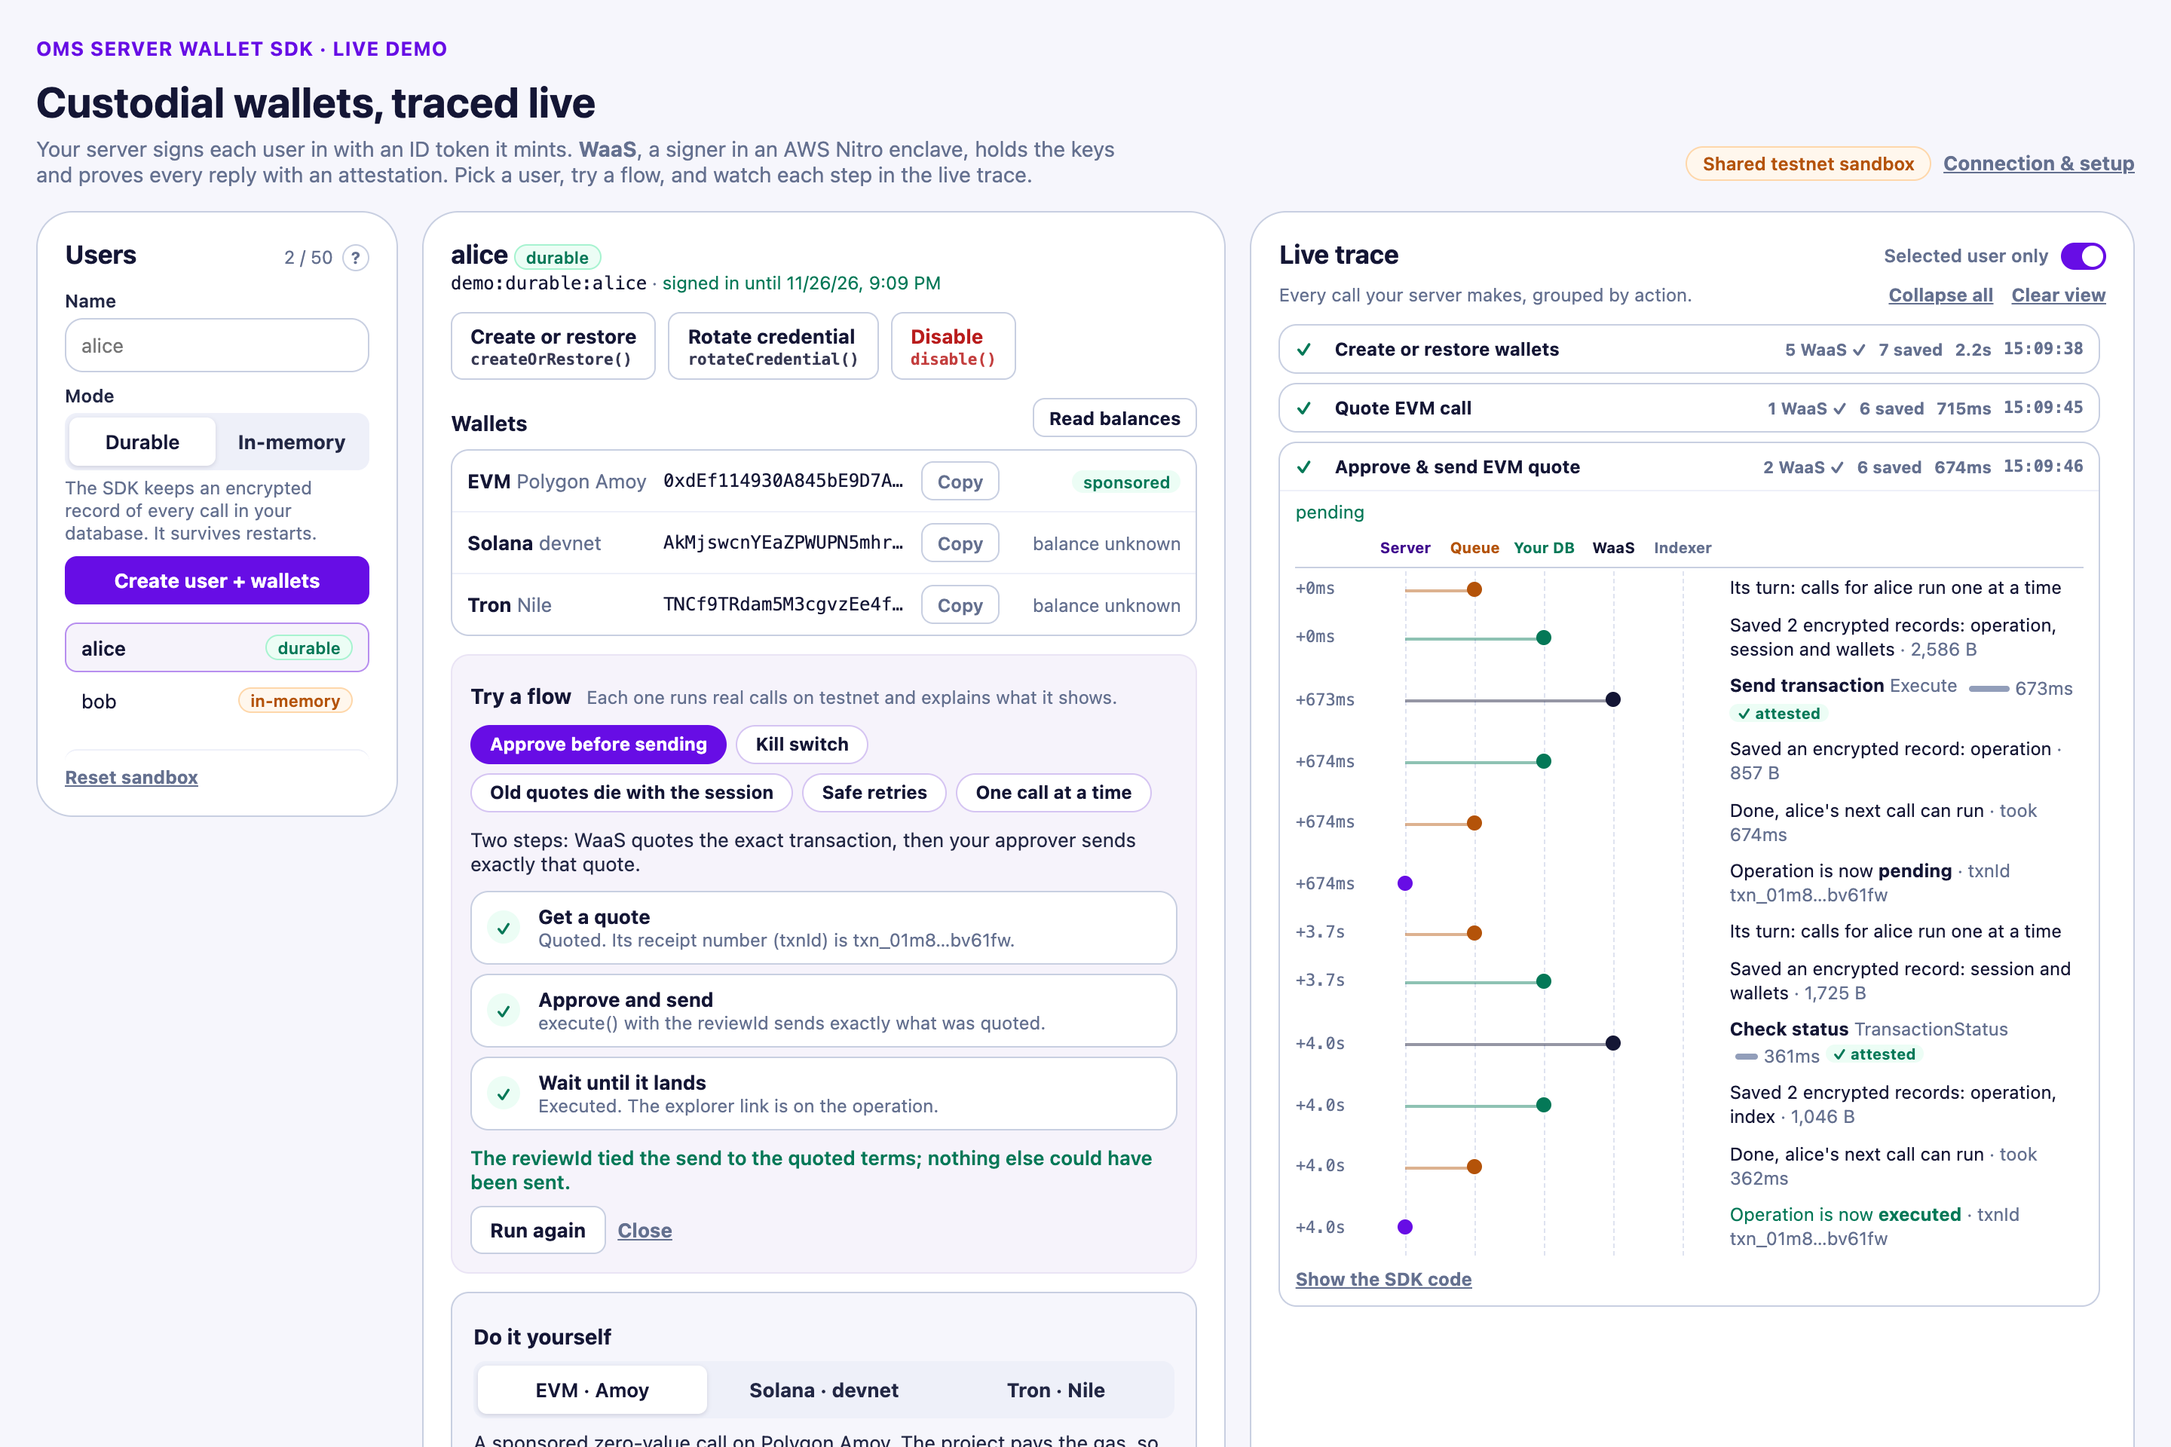
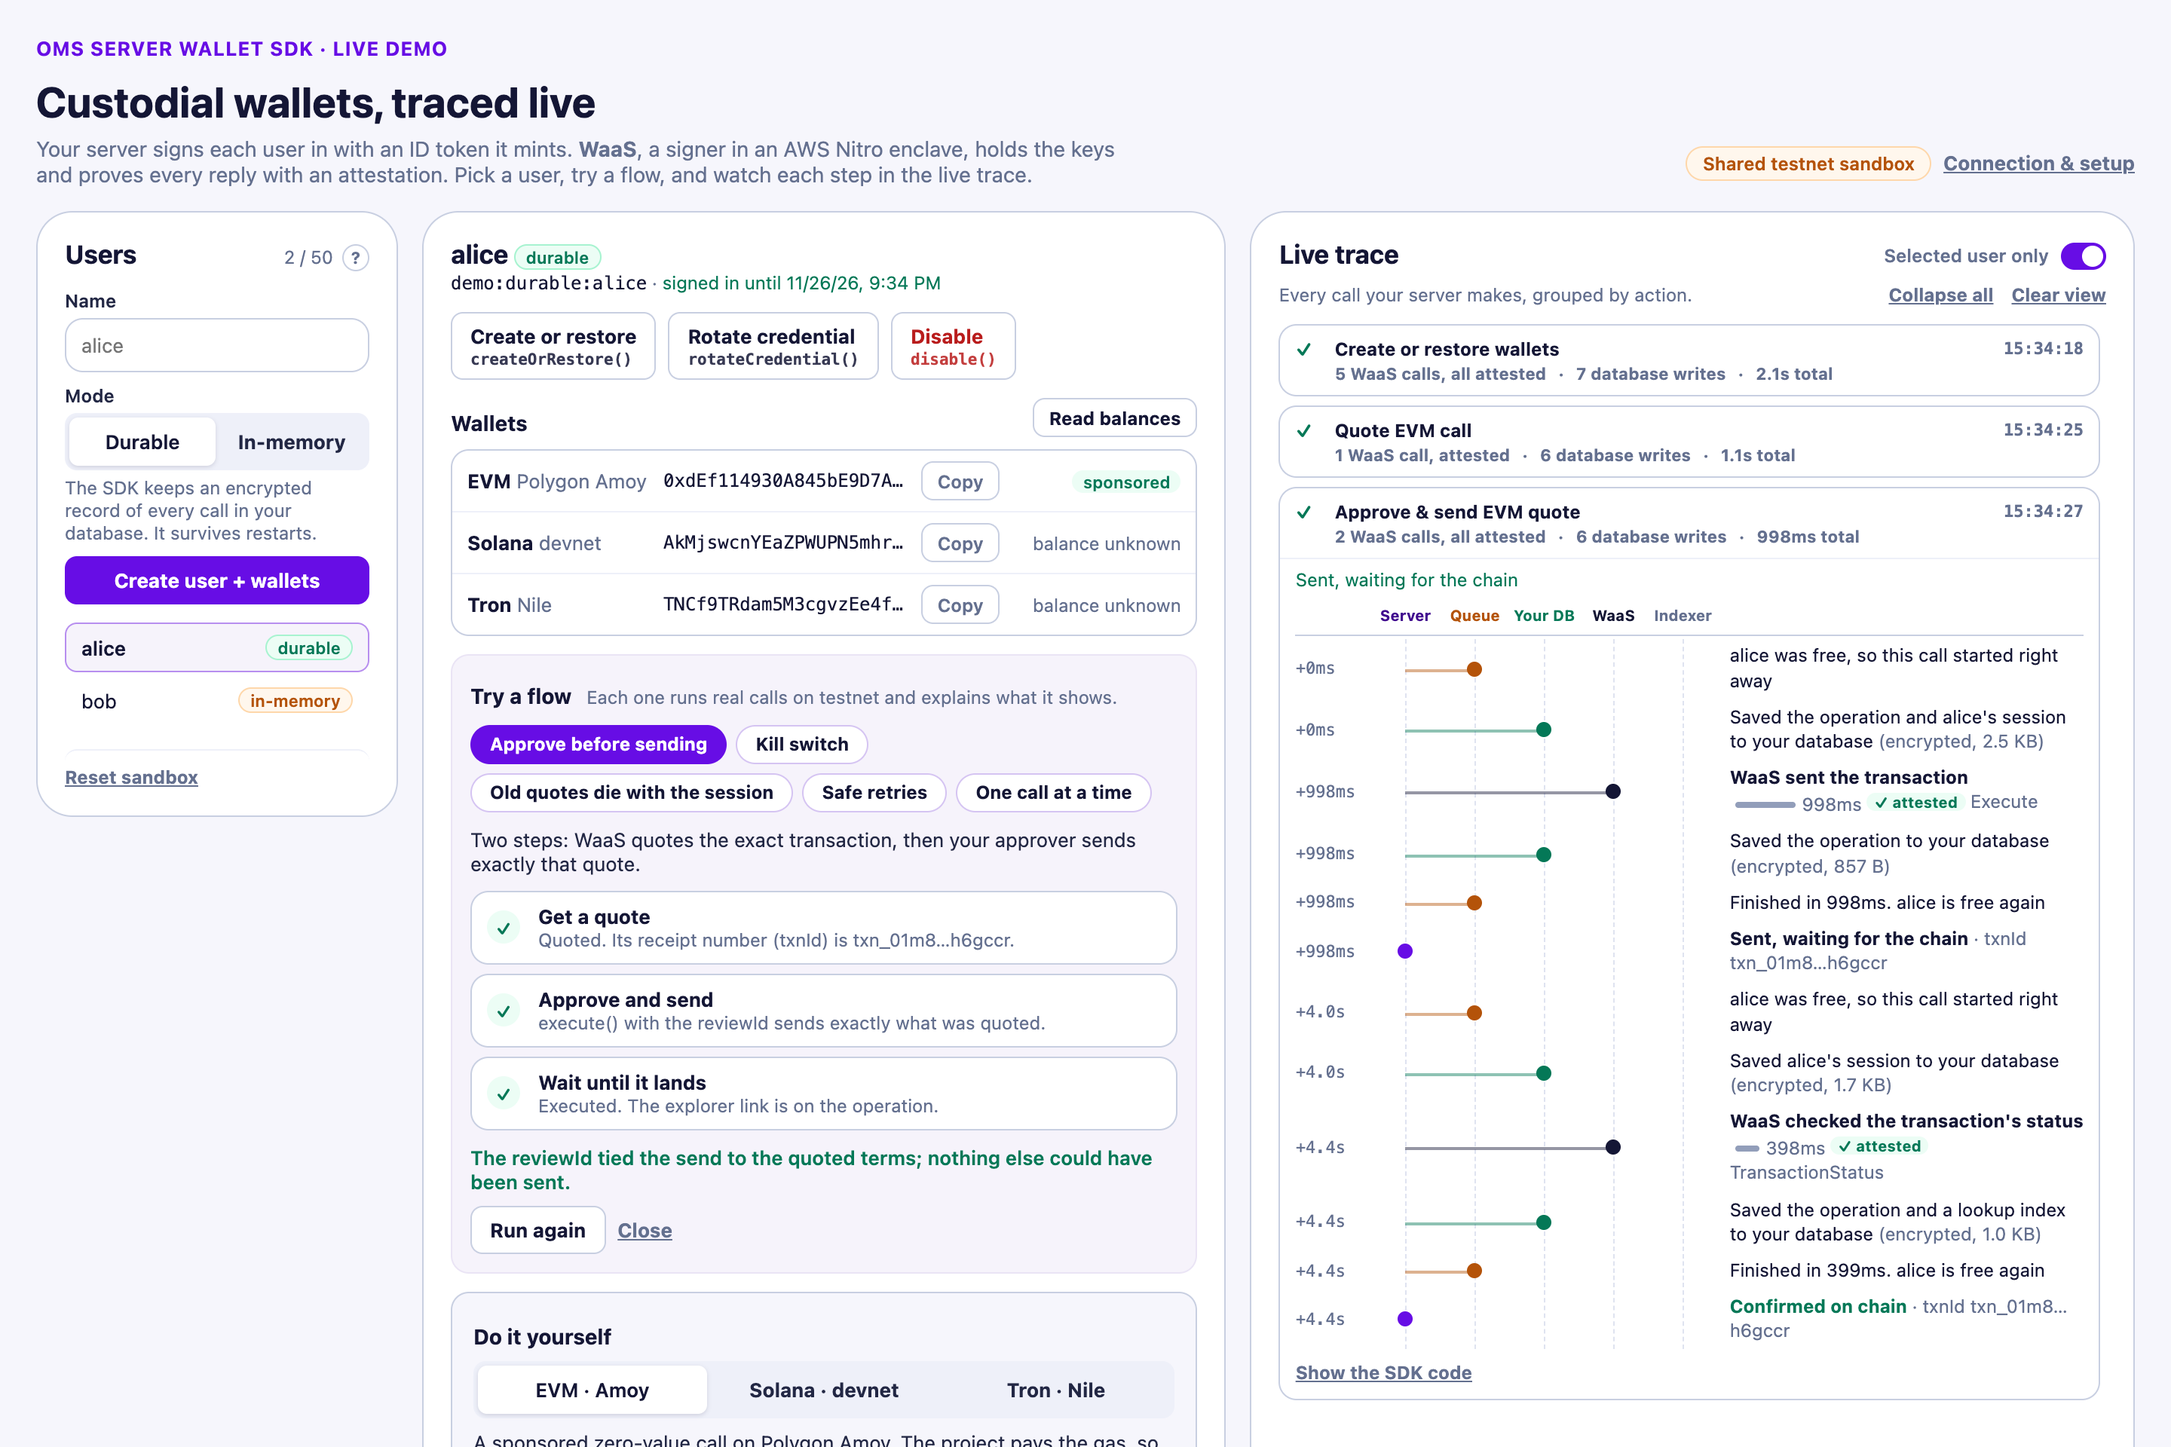
feat(examples): plain-language trace sentences and two-line action cards

diff --git a/examples/server-wallet/src/Trace.tsx b/examples/server-wallet/src/Trace.tsx
@@ -3,7 +3,7 @@ import { Collapsible, CollapsiblePanel, CollapsibleTrigger } from '@ui-sdk/react
 import { Switch, SwitchThumb } from '@ui-sdk/react/switch';
 
 import type { DemoEvent, DemoUser } from '../shared';
-import { codeFor, LANES, plainKey, plainMethod } from './explain';
+import { codeFor, LANES, size, STATUS, storedThings, waasSentence } from './explain';
 import { clock, CopyButton, duration, Hint, ModeBadge, short } from './ui';
 
 type ActionEvent = Extract<DemoEvent, { kind: 'action' }>;
@@ -147,17 +147,24 @@ function ActionCard(props: {
         <span className="summary">
           {waas.length > 0 && (
             <span>
-              {waas.length} WaaS{attested ? ' ✓' : ''}
+              {waas.length} WaaS {waas.length === 1 ? 'call' : 'calls'}
+              {attested ? (waas.length === 1 ? ', attested' : ', all attested') : ''}
             </span>
           )}
-          {writes > 0 && <span>{writes} saved</span>}
-          {waited >= 10 && <span className="lock-wait">queued {duration(waited)}</span>}
-          <span>{end ? duration(end.at - start.at) : 'running'}</span>
+          {writes > 0 && (
+            <span>
+              {writes} database {writes === 1 ? 'write' : 'writes'}
+            </span>
+          )}
+          {waited >= 10 && <span className="lock-wait">waited {duration(waited)}</span>}
+          <span>{end ? `${duration(end.at - start.at)} total` : 'running'}</span>
         </span>
         <span className="time">{clock(start.at)}</span>
       </CollapsibleTrigger>
       <CollapsiblePanel className="action-body">
-        {end?.detail && <p className={`outcome ${end.phase}`}>{end.detail}</p>}
+        {end?.detail && (
+          <p className={`outcome ${end.phase}`}>{STATUS[end.detail] ?? end.detail}</p>
+        )}
         <div className="lanes header">
           <span />
           {LANES.map((lane) => {
@@ -221,7 +228,6 @@ function toRows(events: DemoEvent[], name: string): Row[] {
     if (event.kind === 'store') {
       const run = [event];
       while (events[index + 1]?.kind === 'store') run.push(events[++index] as typeof event);
-      const kinds = [...new Set(run.map((write) => plainKey(write.key)))];
       const bytes = run.reduce((sum, write) => sum + write.bytes, 0);
       rows.push({
         id: event.id,
@@ -230,8 +236,12 @@ function toRows(events: DemoEvent[], name: string): Row[] {
         tone: '',
         text: (
           <span title={run.map((write) => `${write.key} (${write.bytes} B)`).join('\n')}>
-            Saved {run.length === 1 ? 'an encrypted record' : `${run.length} encrypted records`}:{' '}
-            {kinds.join(', ')} <span className="muted">· {bytes.toLocaleString()} B</span>
+            Saved{' '}
+            {storedThings(
+              run.map((write) => write.key),
+              name
+            )}{' '}
+            to your database <span className="muted">(encrypted, {size(bytes)})</span>
           </span>
         )
       });
@@ -260,19 +270,18 @@ function toRows(events: DemoEvent[], name: string): Row[] {
         tone: '',
         text:
           event.phase === 'queued' ? (
-            <>Queued: another call for {name} is still running</>
+            <>{name} was busy with another call, so this one waited</>
           ) : event.phase === 'acquired' ? (
             (event.waitedMs ?? 0) >= 5 ? (
               <>
-                Its turn now, after waiting <b>{duration(event.waitedMs!)}</b>
+                Started after waiting <b>{duration(event.waitedMs!)}</b>
               </>
             ) : (
-              <>Its turn: calls for {name} run one at a time</>
+              <>{name} was free, so this call started right away</>
             )
           ) : (
             <>
-              Done, {name}'s next call can run{' '}
-              <span className="muted">· took {duration(event.heldMs ?? 0)}</span>
+              Finished in {duration(event.heldMs ?? 0)}. {name} is free again
             </>
           )
       });
@@ -283,7 +292,7 @@ function toRows(events: DemoEvent[], name: string): Row[] {
       at: event.at,
       lane: event.lane,
       tone: tone(event),
-      text: <Describe event={event} />
+      text: <Describe event={event} name={name} />
     });
   }
   return rows;
@@ -298,7 +307,7 @@ function tone(event: DemoEvent) {
   return '';
 }
 
-function Describe({ event }: { event: DemoEvent }) {
+function Describe({ event, name }: { event: DemoEvent; name: string }) {
   switch (event.kind) {
     case 'hook':
       return (
@@ -309,7 +318,7 @@ function Describe({ event }: { event: DemoEvent }) {
     case 'operation':
       return (
         <>
-          Operation is now <b>{event.operation.status}</b>
+          <b>{STATUS[event.operation.status] ?? event.operation.status}</b>
           {event.operation.txnId ? (
             <span className="muted"> · txnId {short(event.operation.txnId)}</span>
           ) : null}
@@ -318,11 +327,7 @@ function Describe({ event }: { event: DemoEvent }) {
     case 'waas':
       return (
         <>
-          <b>
-            {plainMethod(event.method)}
-            {event.chain ? ` · ${event.chain}` : ''}
-          </b>{' '}
-          <span className="muted">{event.method}</span> <Latency ms={event.ms} />{' '}
+          <b>{waasSentence(event.method, name, event.chain)}</b> <Latency ms={event.ms} />{' '}
           {event.attested && (
             <Hint
               side="top"
@@ -332,15 +337,17 @@ function Describe({ event }: { event: DemoEvent }) {
                 ✓ attested
               </span>
             </Hint>
-          )}
+          )}{' '}
+          <span className="muted method">{event.method}</span>
         </>
       );
     case 'indexer':
       return (
         <>
-          <b>Read balances{event.chain ? ` · ${event.chain}` : ''}</b>{' '}
-          <span className="muted">{event.method}</span> <Latency ms={event.ms} />{' '}
-          <span className="muted">not attested</span>
+          <b>
+            Read {name}'s {event.chain ? `${event.chain} ` : ''}balance
+          </b>{' '}
+          <Latency ms={event.ms} /> <span className="muted">not attested</span>
         </>
       );
     default:

diff --git a/examples/server-wallet/server/wallets.ts b/examples/server-wallet/server/wallets.ts
@@ -258,8 +258,8 @@ export async function createWallets(
         emit({
           lane: 'app',
           kind: 'hook',
-          name: 'ID token minted',
-          detail: `for ${subject} · valid 5 min · single use`,
+          name: `Minted a one-time ID token for ${subject.split(':').pop()}`,
+          detail: '(valid 5 min)',
           title: `{ iss: ${issuer.issuer}, aud: ${issuer.audience}, sub: ${subject}, exp: now + 5 min, jti: random }`
         });
         return minted;
@@ -356,11 +356,11 @@ export async function createWallets(
       emit({
         lane: 'app',
         kind: 'hook',
-        name: 'onPrepared',
-        detail:
+        name:
           user.mode === 'memory'
-            ? `saved receipt ${operation.quote.txnId.slice(0, 8)}…${operation.quote.txnId.slice(-6)} to your ledger, before sending`
-            : 'quote ready; sending it now'
+            ? 'Saved the receipt to your ledger before sending'
+            : 'Quote ready, sending it now',
+        detail: '(onPrepared)'
       });
       await saveTxn(user, family, operation);
     };
@@ -546,7 +546,7 @@ export async function createWallets(
             ...tron.items.map(tag('tron'))
           ];
         },
-        (items) => `${items.length} balances read`
+        () => 'Balances read'
       ),
 
     sign: (subject: string, family: Family) =>
@@ -564,7 +564,7 @@ export async function createWallets(
                 : await wallet.tron.signMessage(input);
           return traced(operation);
         },
-        (op) => `signed, verified: ${op.status === 'signed'}`
+        (op) => op.status
       ),
 
     /** Step 1 of two-phase: quote only. Nothing is sent until execute. */
@@ -620,8 +620,8 @@ export async function createWallets(
         },
         ({ reused }) =>
           reused
-            ? 'same operation returned, nothing sent again'
-            : 'no record of this key in this handle: a new quote was made'
+            ? 'Got the same operation back: nothing was sent twice'
+            : 'This handle had no record of the key, so a new quote was made'
       ),
 
     /** In-memory recovery: wait on a saved txnId from any handle, with no record of the operation. */
@@ -644,7 +644,7 @@ export async function createWallets(
           await saveApp();
           return entry;
         },
-        (entry) => entry.outcome ?? ''
+        (entry) => `WaaS says: ${entry.outcome ?? 'no answer'}`
       ),
 
     rotate: (subject: string) =>
@@ -652,7 +652,7 @@ export async function createWallets(
         subject,
         'Rotate credential',
         async (user) => remember(user, await handle(user).rotateCredential()),
-        (u) => `new credential until ${u.expiresAt}`
+        () => 'Old session ended, new session started'
       ),
 
     /** Durable: the kill switch. In-memory: drop the handle (what a restart does). */
@@ -664,7 +664,7 @@ export async function createWallets(
           'Simulate restart',
           // Revokes the credential and forgets every record of this handle.
           () => memory.evict(subject).then(() => user),
-          () => 'handle dropped: records gone, credential revoked'
+          () => 'Handle dropped: its session ended and its records are gone'
         );
       const wallet = durable.forSubject(subject);
       const disabled = (await context.run({ quiet: true }, () => wallet.inspect())).disabled;
@@ -672,7 +672,7 @@ export async function createWallets(
         subject,
         disabled ? 'Enable wallet' : 'Disable wallet',
         async () => remember(user, disabled ? await wallet.enable() : await wallet.disable()),
-        (result) => (result.disabled ? 'disabled' : 'enabled')
+        (result) => (result.disabled ? 'Disabled: every call is refused' : 'Enabled again')
       );
     },
 

diff --git a/examples/server-wallet/src/explain.ts b/examples/server-wallet/src/explain.ts
@@ -1,30 +1,70 @@
 import type { DemoEvent, Family, Mode } from '../shared';
 
-const METHODS: Record<string, string> = {
-  CommitVerifier: 'Start sign-in',
-  CompleteAuth: 'Sign in with ID token',
-  CreateWallet: 'Create wallet',
-  UseWallet: 'Reconnect wallet',
-  ListWallets: 'List wallets',
-  Execute: 'Send transaction',
-  TransactionStatus: 'Check status',
-  SignMessage: 'Sign message',
-  IsValidMessageSignature: 'Verify signature',
-  RevokeCredential: 'End session',
-  GetTokenBalancesDetails: 'Read balances',
-  GetTokenBalances: 'Read balances'
-};
-
-export const plainMethod = (method: string) =>
-  METHODS[method] ?? (method.startsWith('Prepare') ? 'Quote transaction' : method);
-
-/** What a stored key holds, in words. */
-export function plainKey(key: string) {
-  if (key === 'wallet') return 'session and wallets';
-  if (key.startsWith('operation:')) return 'operation';
-  if (/[Ii]ndex/.test(key)) return 'index';
-  return key;
+/** What WaaS did, as a sentence about this user. */
+export function waasSentence(method: string, name: string, chain?: string) {
+  const wallet = chain ? `${name}'s ${chain} wallet` : `${name}'s wallet`;
+  switch (method) {
+    case 'CommitVerifier':
+      return 'WaaS started sign-in';
+    case 'CompleteAuth':
+      return `WaaS signed ${name} in with the ID token`;
+    case 'CreateWallet':
+      return `WaaS created ${wallet}`;
+    case 'UseWallet':
+      return `WaaS reconnected ${wallet}`;
+    case 'ListWallets':
+      return `WaaS listed ${name}'s wallets`;
+    case 'Execute':
+      return 'WaaS sent the transaction';
+    case 'TransactionStatus':
+      return "WaaS checked the transaction's status";
+    case 'SignMessage':
+      return 'WaaS signed the message';
+    case 'IsValidMessageSignature':
+      return 'WaaS confirmed the signature is valid';
+    case 'RevokeCredential':
+      return `WaaS ended ${name}'s session`;
+    default:
+      return method.startsWith('Prepare') ? 'WaaS quoted the transaction' : `WaaS: ${method}`;
+  }
 }
+
+/** What a set of stored keys holds, in words: "the operation and alice's session". */
+export function storedThings(keys: readonly string[], name: string) {
+  const things = new Set<string>();
+  for (const key of keys)
+    things.add(
+      key === 'wallet'
+        ? `${name}'s session`
+        : key.startsWith('operation:')
+          ? 'the operation'
+          : /[Ii]ndex/.test(key)
+            ? 'a lookup index'
+            : key
+    );
+  const order = (thing: string) =>
+    thing === 'the operation' ? 0 : thing.endsWith('session') ? 1 : 2;
+  const list = [...things].sort((a, b) => order(a) - order(b));
+  return list.length > 1 ? `${list.slice(0, -1).join(', ')} and ${list.at(-1)}` : list[0]!;
+}
+
+export function size(bytes: number) {
+  return bytes < 1024 ? `${bytes} B` : `${(bytes / 1024).toFixed(1)} KB`;
+}
+
+/** What an operation status means, in a few words. */
+export const STATUS: Record<string, string> = {
+  preparing: 'Preparing the quote',
+  quoted: 'Quoted, waiting for your approval',
+  submitting: 'Being sent',
+  pending: 'Sent, waiting for the chain',
+  executed: 'Confirmed on chain',
+  signed: 'Signed and verified by WaaS',
+  failed: 'Failed',
+  cancelled: 'Cancelled: nothing was sent',
+  expired: 'Quote expired: nothing was sent',
+  unknown: 'Outcome unknown: reconcile before retrying'
+};
 
 export const LANES = [
   { id: 'app', label: 'Server', hint: 'Your backend: it runs the SDK and mints ID tokens.' },

diff --git a/examples/server-wallet/src/styles.css b/examples/server-wallet/src/styles.css
@@ -894,8 +894,11 @@ input[type='checkbox'] {
 .action-head {
   width: 100%;
   display: grid;
-  grid-template-columns: 18px minmax(0, 1fr) auto auto;
-  gap: 8px;
+  grid-template-columns: 18px minmax(0, 1fr) auto;
+  grid-template-areas:
+    'result title time'
+    '. summary summary';
+  gap: 2px 8px;
   align-items: center;
   border: 0;
   background: transparent;
@@ -903,6 +906,23 @@ input[type='checkbox'] {
   min-height: 0;
   text-align: left;
   font-size: 12px;
+}
+
+.action-head .result {
+  grid-area: result;
+}
+
+.action-head .action-title {
+  grid-area: title;
+}
+
+.action-head .time {
+  grid-area: time;
+}
+
+.action-head .summary {
+  grid-area: summary;
+  flex-wrap: wrap;
 }
 
 .action-title {
@@ -1674,4 +1694,9 @@ button.big {
 
 .ledger-row .tag {
   justify-self: start;
+}
+
+.summary > span + span::before {
+  content: '·';
+  margin-right: 8px;
 }

diff --git a/examples/server-wallet/src/flows.ts b/examples/server-wallet/src/flows.ts
@@ -175,7 +175,7 @@ export const FLOWS: readonly Flow[] = [
     mode: 'durable',
     title: 'One call at a time',
     why: "A durable user's calls take turns through a per-user lock, so two servers never race.",
-    takeaway: 'The second call waited for the first: its trace card says “queued”.',
+    takeaway: 'The second call waited for the first: its trace card says “waited”.',
     steps: [
       {
         label: 'Run two signatures at once',
